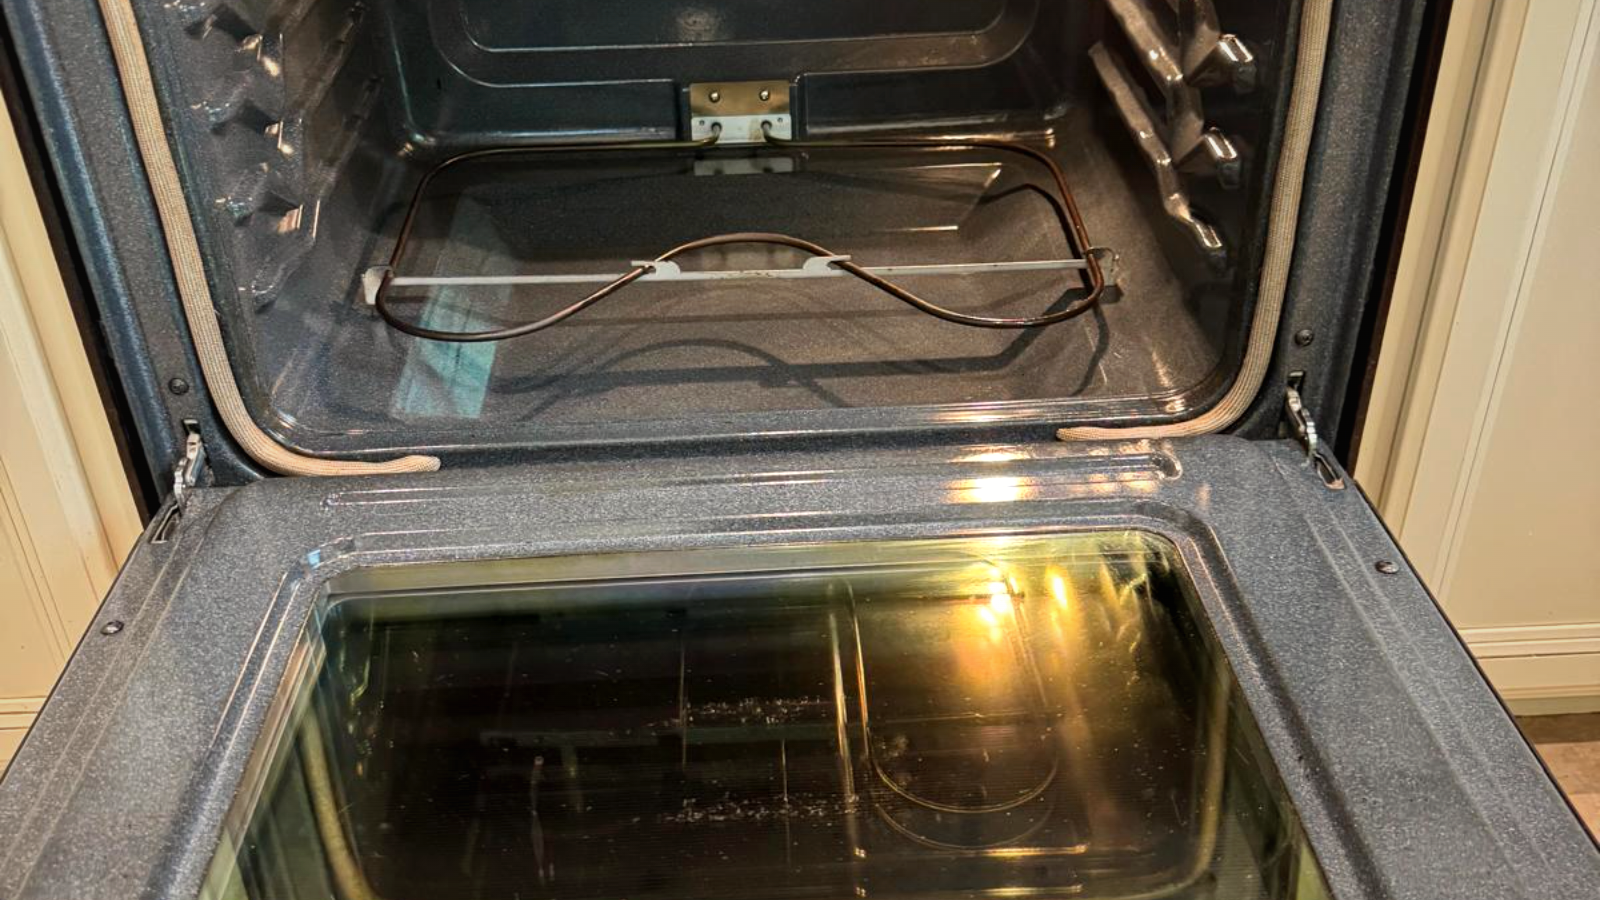
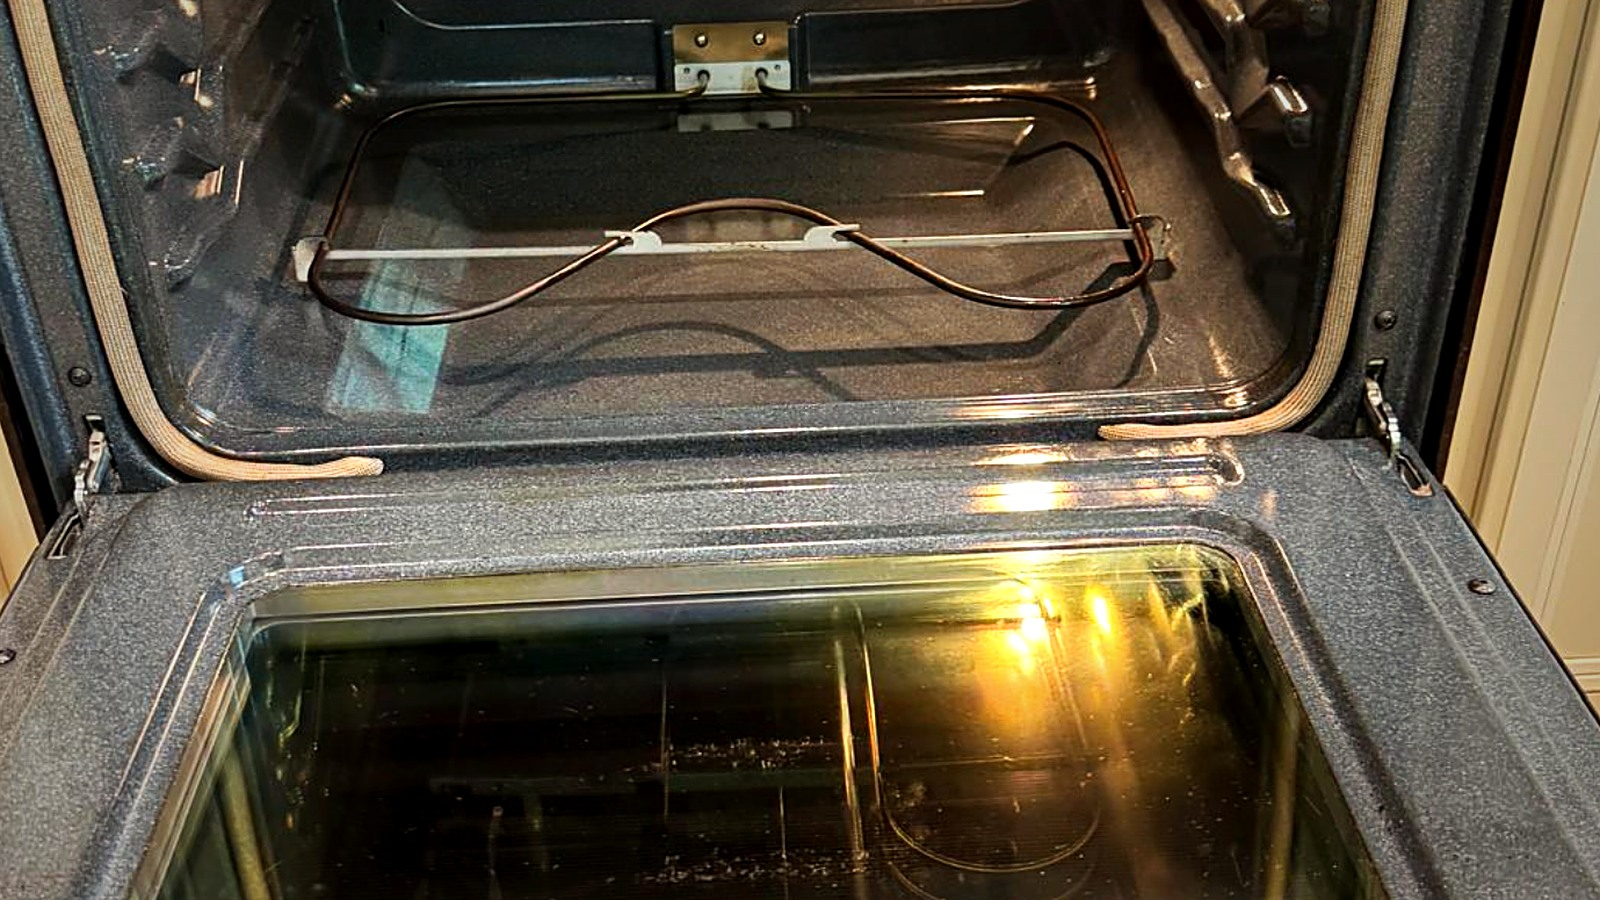
Add files via upload

diff --git a/index.html b/index.html
@@ -158,11 +158,16 @@
     <h2 data-reveal="fade" style="opacity:0;transform:translateY(16px);transition:opacity .8s var(--ease-out-soft),transform .8s var(--ease-out-soft);font-family:var(--font-display);font-size:var(--text-display-lg);margin:0 0 18px;font-weight:600">Every visit ends the same way</h2>
     <p data-reveal="fade" style="opacity:0;transform:translateY(16px);transition:opacity .8s var(--ease-out-soft),transform .8s var(--ease-out-soft);color:var(--text-muted);font-size:var(--text-body-lg);margin:0">Spotless surfaces, straightened rooms, and a space that feels reset — not just wiped down. Drag the divider to see the difference.</p>
   </div>
+  <div style="display:flex;justify-content:center;gap:10px;margin-bottom:24px;flex-wrap:wrap">
+    <sc-for list="{{ showcaseTabs }}" as="tab" hint-placeholder-count="2">
+      <div data-key="{{ tab.key }}" onClick="{{ selectShowcase }}" style="border:1px solid var(--border-subtle);border-radius:100px;padding:9px 20px;font-size:13px;font-weight:600;cursor:pointer;transition:.15s;{{ tab.style }}">{{ tab.label }}</div>
+    </sc-for>
+  </div>
   <div data-reveal="scale" ref="{{ sliderRef }}" onPointerDown="{{ onSliderDown }}" onPointerMove="{{ onSliderMove }}" onPointerUp="{{ onSliderUp }}" style="opacity:0;transform:scale(.96);transition:opacity .8s var(--ease-out-soft),transform .8s var(--ease-out-soft);position:relative;max-width:960px;margin:0 auto;aspect-ratio:16/9;border-radius:24px;overflow:hidden;box-shadow:var(--shadow-lg);cursor:ew-resize;user-select:none">
     <div style="position:absolute;inset:-14px 14px auto -14px;top:auto;bottom:-14px;height:60%;border:1px solid var(--dc-gold);border-radius:20px;opacity:.3;transform:rotate(-1.2deg);pointer-events:none;z-index:-1"></div>
-    <image-slot id="showcase-after" src="assets/before-after/after-oven.jpg" placeholder="AFTER — same room, same camera angle as Before: surfaces cleared and gleaming, cushions plumped, warm golden-hour light, styled like a magazine reveal. True-to-life warm grade, never cold. Feeling: calm, restored, editorial." shape="rect" style="position:absolute;inset:0;color:rgba(58,51,44,.22)"></image-slot>
+    <image-slot id="showcase-after" src="{{ showcaseAfterSrc }}" placeholder="AFTER — same room, same camera angle as Before: surfaces cleared and gleaming, cushions plumped, warm golden-hour light, styled like a magazine reveal. True-to-life warm grade, never cold. Feeling: calm, restored, editorial." shape="rect" style="position:absolute;inset:0;color:rgba(58,51,44,.22)"></image-slot>
     <div style="position:absolute;inset:0;overflow:hidden;clip-path:{{ beforeClip }}">
-      <image-slot id="showcase-before" src="assets/before-after/before-oven.jpg" placeholder="BEFORE — same room, same angle: naturally lived-in — folded laundry, a few dishes, daily clutter — but warmly and evenly lit, never staged as grim or dirty. Feeling: authentically in-use, ready for its reset." shape="rect" style="position:absolute;inset:0;color:rgba(58,51,44,.22)"></image-slot>
+      <image-slot id="showcase-before" src="{{ showcaseBeforeSrc }}" placeholder="BEFORE — same room, same angle: naturally lived-in — folded laundry, a few dishes, daily clutter — but warmly and evenly lit, never staged as grim or dirty. Feeling: authentically in-use, ready for its reset." shape="rect" style="position:absolute;inset:0;color:rgba(58,51,44,.22)"></image-slot>
     </div>
     <img src="assets/logos/submark_gold_on_espresso.png" alt="" style="position:absolute;bottom:14px;right:14px;width:34px;opacity:.85;pointer-events:none;z-index:2">
     <div style="position:absolute;top:16px;left:16px;padding:6px 14px;border-radius:100px;background:rgba(58,51,44,.55);color:#fff;font-size:11px;letter-spacing:.08em;text-transform:uppercase;backdrop-filter:blur(4px)">Before</div>
@@ -507,6 +512,11 @@ const FREQ_BY_TYPE = { standard:["once","weekly","biweekly","monthly"], deep:["o
 const BATH_EXTRA = { low: 8, high: 12 };
 const SEL_STYLE = 'background:var(--dc-gold);color:#fff;border-color:var(--dc-gold)';
 const UNSEL_STYLE = 'background:var(--surface-canvas);color:var(--dc-espresso);border-color:var(--border-subtle)';
+
+const SHOWCASE_EXAMPLES = [
+  { key: 'oven', label: 'Oven', before: 'assets/before-after/before-oven.jpg', after: 'assets/before-after/after-oven.jpg' },
+  { key: 'fridge', label: 'Refrigerator', before: 'assets/before-after/before-fridge.jpg', after: 'assets/before-after/after-fridge.jpg' }
+];
 const CHECK_ON = 'background:var(--dc-gold);border-color:var(--dc-gold)';
 const SERVICE_DEFS = [
   { idx:0, num:'01', label:'Residential', imgId:'service-residential', imgSrc:(window.__resources && window.__resources.svcResidential) || 'uploads/Imagenes_Web_DreamClean/02_Residential_2400w.jpg', imgPlaceholder:"Large-format close-up: a perfectly made bed, crisp white linens, folded camel-toned throw at the foot. Soft raking window light, shallow depth of field, true-to-life warm tones. Tight crop, negative space at top for the title. Feeling: boutique-hotel warmth, just turned down.", desc:"Recurring home cleaning, deep cleans, and move-in/move-out — the kind of finish that looks magazine-ready." },
@@ -538,6 +548,7 @@ class Component extends DCLogic {
     activeService: 0,
     estimateOpen: false,
     sliderPos: 50,
+    showcaseKey: 'oven',
     processStep: 0,
     calc: {
       step: 1, type: 'standard', freq: 'once', bedrooms: '2', bathrooms: '2', sqft: 1500,
@@ -673,6 +684,7 @@ class Component extends DCLogic {
   onSliderDown = (e) => { e.currentTarget.setPointerCapture(e.pointerId); this.dragging = true; this.updateSlider(e); };
   onSliderMove = (e) => { if (this.dragging) this.updateSlider(e); };
   onSliderUp = (e) => { this.dragging = false; };
+  selectShowcase = (e) => { const key = e.currentTarget.dataset.key; this.setState({ showcaseKey: key, sliderPos: 50 }); };
   updateSlider(e) {
     const r = this.sliderRef.current.getBoundingClientRect();
     const pct = Math.min(100, Math.max(0, ((e.clientX - r.left) / r.width) * 100));
@@ -863,6 +875,8 @@ class Component extends DCLogic {
     const bathOptions = ['1', '1.5', '2', '2.5', '3+'].map((b) => ({ key: b, label: b, style: b === c.bathrooms ? SEL_STYLE : UNSEL_STYLE }));
     const freqOptions = (FREQ_BY_TYPE[c.type] || ['once']).map((f) => ({ key: f, label: FREQ_LABEL[f], style: f === c.freq ? SEL_STYLE : UNSEL_STYLE }));
     const dots = [1, 2, 3, 4].map((n) => ({ n, style: n <= c.step ? 'background:var(--dc-gold)' : 'background:var(--border-subtle)' }));
+    const showcase = SHOWCASE_EXAMPLES.find((x) => x.key === s.showcaseKey) || SHOWCASE_EXAMPLES[0];
+    const showcaseTabs = SHOWCASE_EXAMPLES.map((x) => ({ key: x.key, label: x.label, style: x.key === s.showcaseKey ? SEL_STYLE : UNSEL_STYLE }));
 
     return {
       t: NAV_TXT[s.lang], toggleLang: this.toggleLang,
@@ -881,6 +895,8 @@ class Component extends DCLogic {
       services, setActiveService: this.setActiveService,
       sliderPos: s.sliderPos, beforeClip: 'inset(0 ' + (100 - s.sliderPos) + '% 0 0)',
       onSliderDown: this.onSliderDown, onSliderMove: this.onSliderMove, onSliderUp: this.onSliderUp,
+      showcaseBeforeSrc: showcase.before, showcaseAfterSrc: showcase.after,
+      showcaseTabs, selectShowcase: this.selectShowcase,
 
       processStepNum: proc.num, processStepTitle: proc.title, processStepDesc: proc.desc,
       processStepLabel: 'Step ' + (s.processStep + 1) + ' of 4', processDots,
